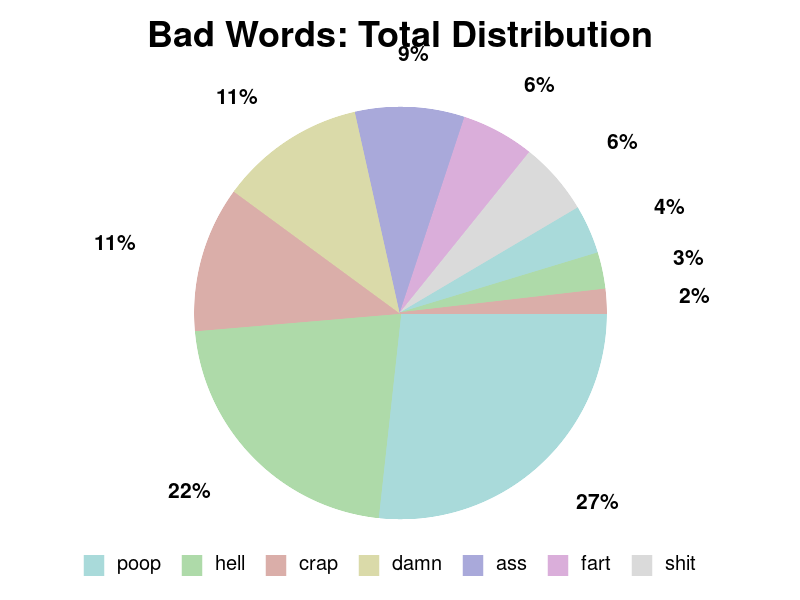
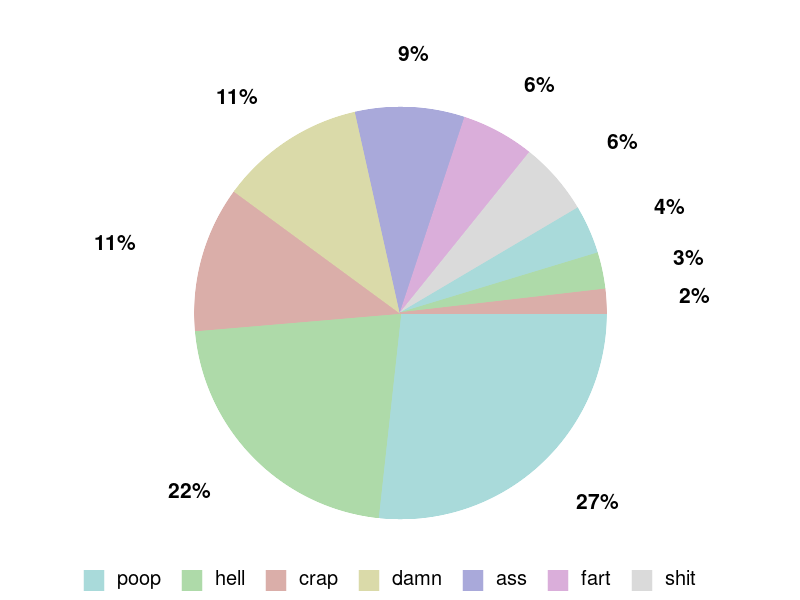
Swears

Changed region(s): [[0.1875, 0.03, 0.8125, 0.09], [0.0938, 0.9, 0.6562, 0.99], [0.6875, 0.9, 0.875, 0.99]]

diff --git a/lib/jekyll_recker/generators.rb b/lib/jekyll_recker/generators.rb
@@ -70,14 +70,14 @@ module JekyllRecker
       include BaseGenerator
 
       def new_line_graph
-        g = Gruff::Line.new
+        g = Gruff::Line.new('800x600')
         g.theme = Gruff::Themes::PASTEL
         g.hide_legend = true
         g
       end
 
       def new_pie_graph
-        g = Gruff::Pie.new
+        g = Gruff::Pie.new('800x600')
         g.theme = Gruff::Themes::PASTEL
         g.hide_legend = false
         g

diff --git a/lib/jekyll_recker/generators/swears.rb b/lib/jekyll_recker/generators/swears.rb
@@ -26,9 +26,8 @@ module JekyllRecker
       def make_graph(results)
         require 'gruff'
         g = new_pie_graph
-        g.title = 'Bad Words: Total Distribution'
-        g.title_margin = 5
         g.legend_at_bottom = true
+        g.minimum_value = 0
         results.each { |w, n| g.data w, n }
         g.write(graphs_join('swears.png'))
       end
